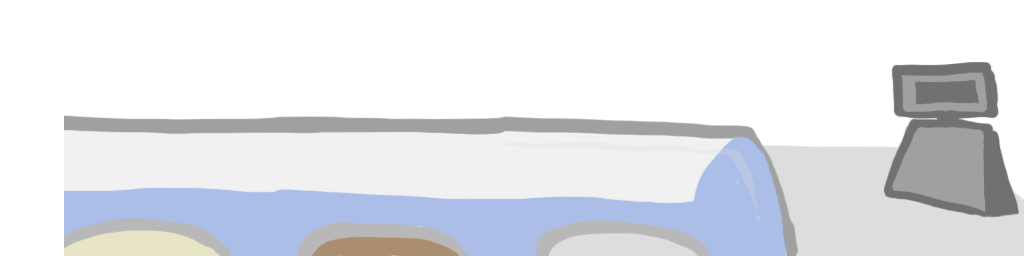
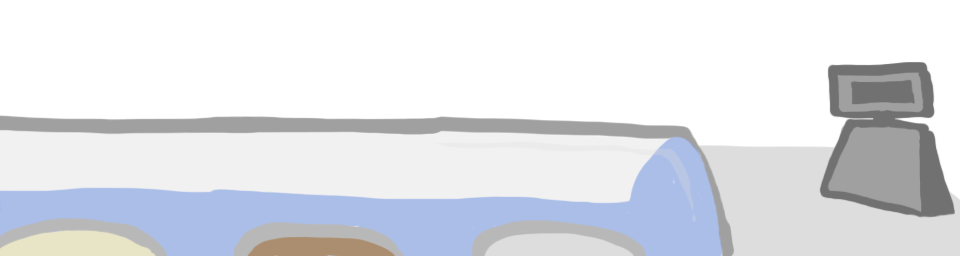
patch bad foreground image badly

diff --git a/components/Scenery.js b/components/Scenery.js
@@ -30,6 +30,9 @@ export default class Scenery extends React.Component {
         <Image
           source={require('../assets/foreground.png')}
           style={styles.foregroundImage} />
+        <Image
+          source={require('../assets/moreground.png')}
+          style={styles.moregroundImage} />
       </View>
     );
   }
@@ -88,9 +91,17 @@ const styles = StyleSheet.create({
     position: 'absolute',
     right: 0,
     bottom: 0,
-    width: 512,
+    width: 480,
     height: 128,
     resizeMode: 'contain',
+  },
+  moregroundImage: {
+    position: 'absolute',
+    left: 0,
+    bottom: 0,
+    width: Dimensions.get('window').width - 480,
+    height: 128,
+    resizeMode: 'stretch',
   },
   customer: {
     position: 'absolute',

diff --git a/App.js b/App.js
@@ -24,6 +24,7 @@ export default class App extends React.Component {
       images: [
         require('./assets/customer.png'),
         require('./assets/foreground.png'),
+        require('./assets/moreground.png'),
       ],
     });
     } catch (e) {
